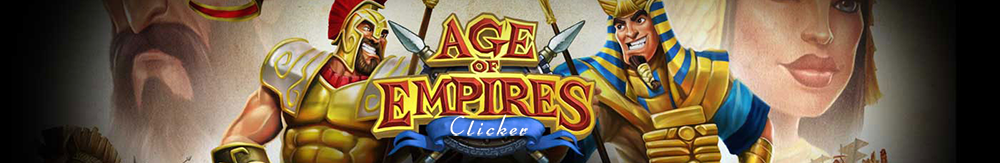
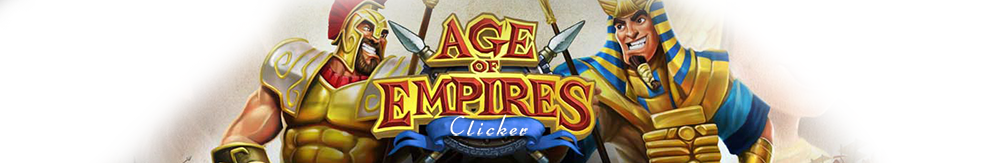
arkaplan cix

diff --git a/style.css b/style.css
@@ -2,16 +2,18 @@ body {
 
 	margin: 0px;
 	padding: 0px;
+	background-image: url("assets/paper8.jpg");
 	background-color: #f2e486;
 }
 
 #container {
 	margin: 0px auto;
 	width: 1000px;
-	background-color: #ffffff;
+	/*background-color: #ffffff;*/
 }
 
 #clicker {
 
+	background-color: #ffffff;
 	text-align: center;
 }
